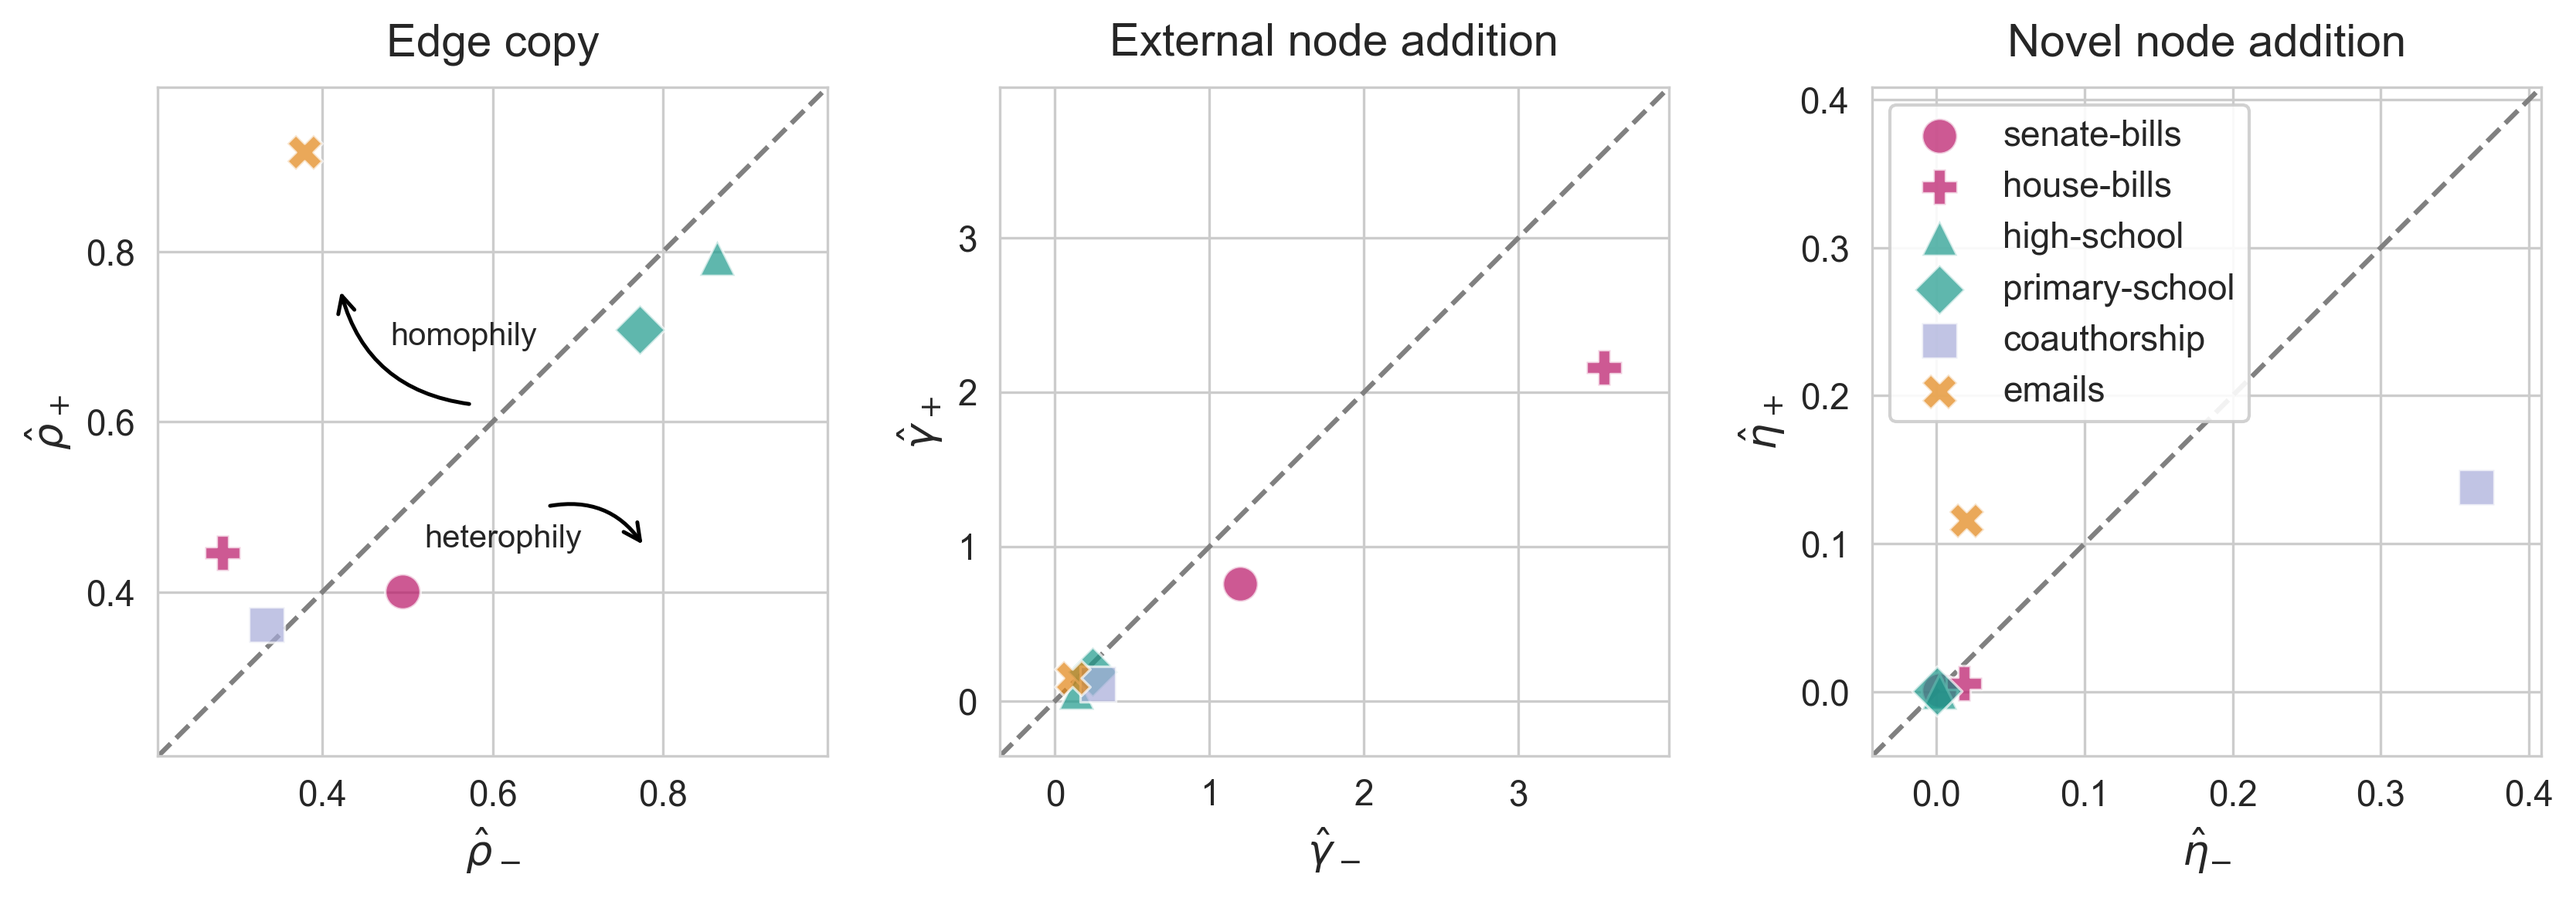
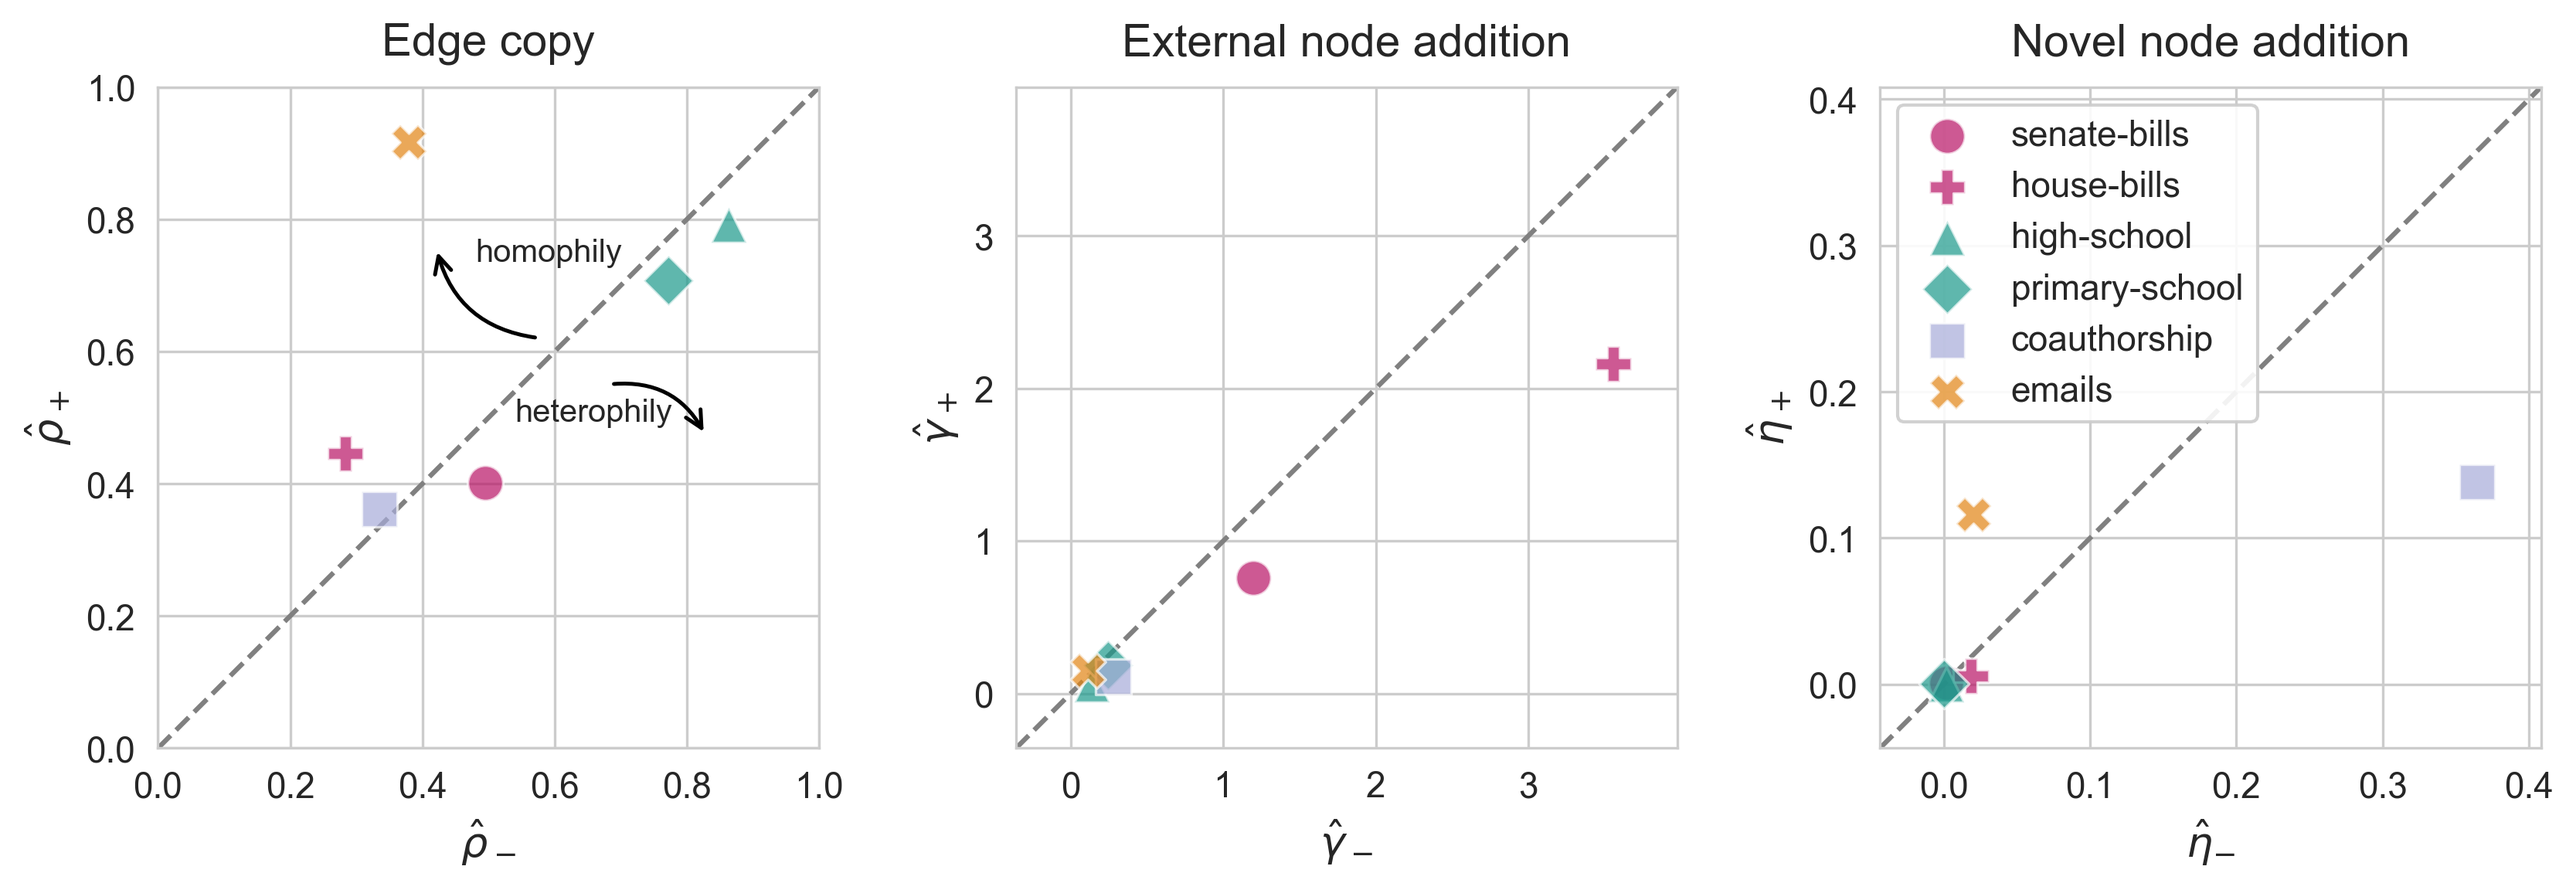
final empirical sem fig

diff --git a/scripts/empirical_sem.py b/scripts/empirical_sem.py
@@ -186,12 +186,15 @@ for ax, panel in zip(axs, PANELS):
         )
 
     # axis limits with margin
-    all_x = [f[panel["xkey"]] for f in finals]
-    all_y = [f[panel["ykey"]] for f in finals]
-    lo = min(min(all_x), min(all_y))
-    hi = max(max(all_x), max(all_y))
-    margin = (hi - lo) * 0.12 if hi != lo else 0.1
-    lim = (lo - margin, hi + margin)
+    if panel["xkey"] == "p":          # first panel: fix to [0, 1]
+        lim = (0.0, 1.0)
+    else:
+        all_x = [f[panel["xkey"]] for f in finals]
+        all_y = [f[panel["ykey"]] for f in finals]
+        lo = min(min(all_x), min(all_y))
+        hi = max(max(all_x), max(all_y))
+        margin = (hi - lo) * 0.12 if hi != lo else 0.1
+        lim = (lo - margin, hi + margin)
     ax.set_xlim(lim)
     ax.set_ylim(lim)
 
@@ -239,13 +242,13 @@ axs[0].annotate(
         lw=1.2,
     ),
 )
-axs[0].text(0.48, 0.7, "homophily", fontsize=10, ha="left", va="center")
+axs[0].text(0.48, 0.75, "homophily", fontsize=10, ha="left", va="center")
 
 # Heterophily arrow
 axs[0].annotate(
     "",
-    xy=(0.78, 0.45),
-    xytext=(0.66, 0.5),
+    xy=(0.83, 0.47),
+    xytext=(0.68, 0.55),
     arrowprops=dict(
         arrowstyle="->",
         connectionstyle="arc3,rad=-0.35",
@@ -253,6 +256,6 @@ axs[0].annotate(
         lw=1.2,
     ),
 )
-axs[0].text(0.52, 0.48, "heterophily", fontsize=10, ha="left", va="top")
+axs[0].text(0.54, 0.53, "heterophily", fontsize=10, ha="left", va="top")
 
-fig.savefig("fig/empiricial_sem.png", dpi=300, bbox_inches="tight")
+fig.savefig("fig/empirical_sem.png", dpi=300, bbox_inches="tight")
